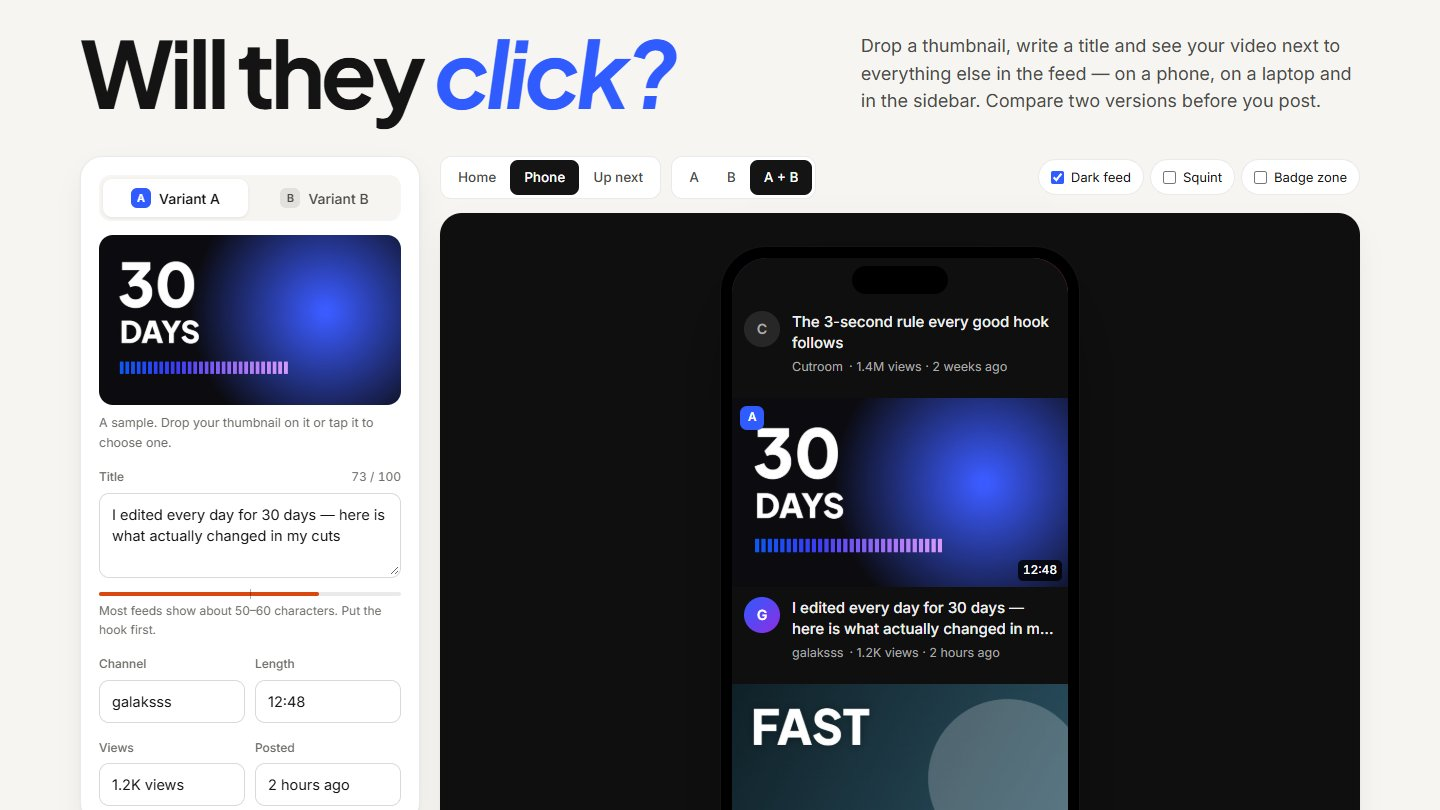
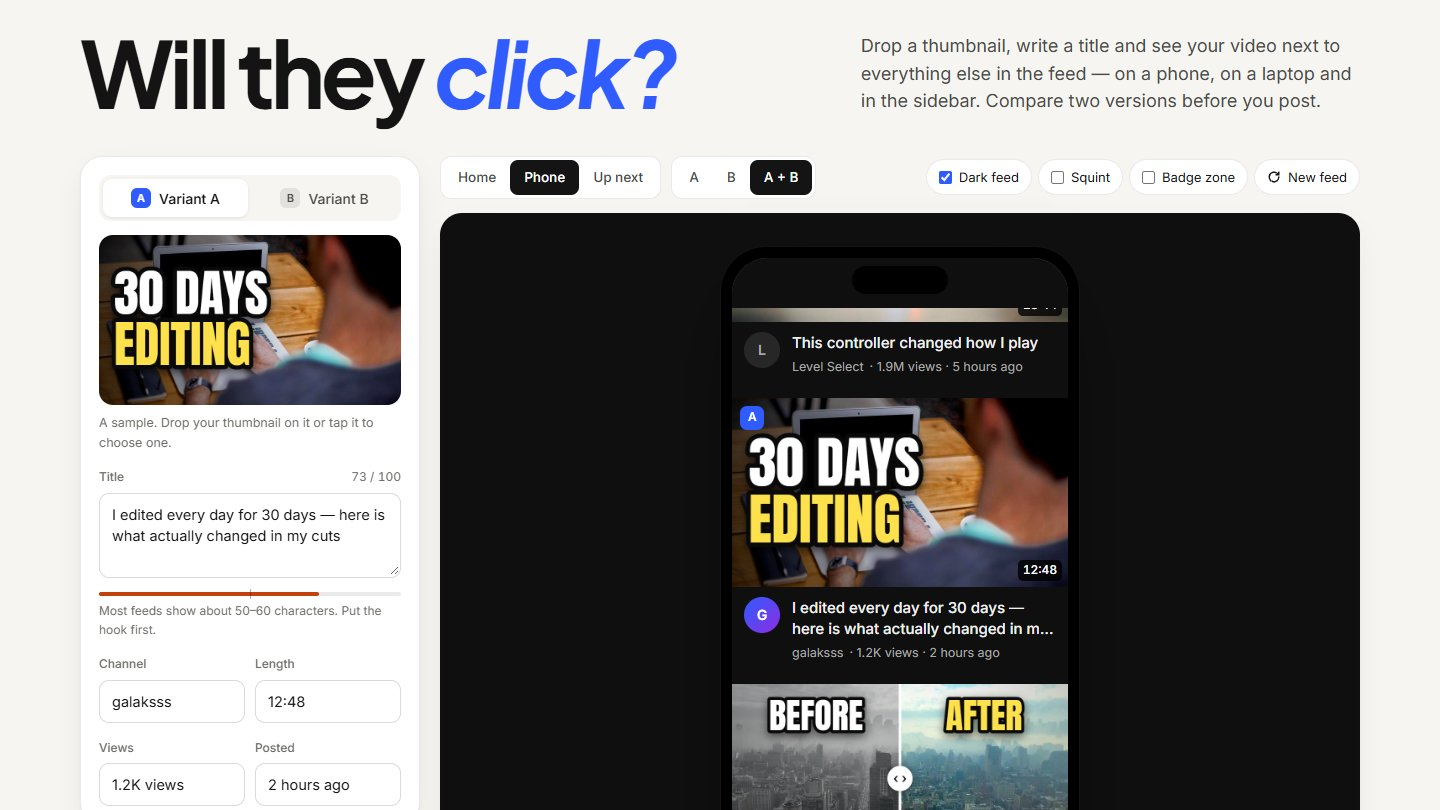
Feedcheck пересобран с живой лентой, новые кадры в карточке

diff --git a/public/p/feedcheck/assets/index-B7ynp-uK.js b/public/p/feedcheck/assets/index-B7ynp-uK.js
@@ -1,0 +1,27 @@
+(function(){let e=document.createElement(`link`).relList;if(e&&e.supports&&e.supports(`modulepreload`))return;for(let e of document.querySelectorAll(`link[rel="modulepreload"]`))n(e);new MutationObserver(e=>{for(let t of e)if(t.type===`childList`)for(let e of t.addedNodes)e.tagName===`LINK`&&e.rel===`modulepreload`&&n(e)}).observe(document,{childList:!0,subtree:!0});function t(e){let t={};return e.integrity&&(t.integrity=e.integrity),e.referrerPolicy&&(t.referrerPolicy=e.referrerPolicy),t.credentials=e.crossOrigin===`use-credentials`?`include`:e.crossOrigin===`anonymous`?`omit`:`same-origin`,t}function n(e){if(e.ep)return;e.ep=!0;let n=t(e);fetch(e.href,n)}})();var e=800,t=450,n=`/p/feedcheck/feed/`,r=`#FFE14D`,i=`#FF3B30`,a=[{img:0,title:`My 2026 desk setup — everything I actually use`,channel:`Small Desk`,views:`412K`,dur:`14:08`,look:{type:`box`,text:`2026 SETUP`,color:r,ink:`#111`,pos:`tl`}},{img:445,title:`Working from a 9 m² apartment for a year`,channel:`Quiet Hours`,views:`1.3M`,dur:`18:41`,look:{type:`clean`}},{img:529,title:`$80 speakers that sound like $2,000`,channel:`Signal Lab`,views:`688K`,dur:`11:20`,look:{type:`big`,text:`*$80* VS
+$2,000`,pos:`left`}},{img:668,title:`iPad or laptop for editing in 2026? I tried both`,channel:`Frame Club`,views:`254K`,dur:`16:02`,look:{type:`big`,text:`IPAD OR
+*LAPTOP?*`,pos:`left`}},{img:91,title:`Shooting only film for 30 days`,channel:`Grain Room`,views:`93K`,dur:`21:37`,look:{type:`big`,text:`30 DAYS
+*FILM ONLY*`,pos:`left`}},{img:355,title:`Why old lenses still look better`,channel:`Wide Lens`,views:`1.8M`,dur:`13:15`,look:{type:`ring`,at:[.47,.5],r:.27,text:`*1974*`,pos:`tr`}},{img:133,title:`Restoring two forgotten classics`,channel:`Garage 12`,views:`2.4M`,dur:`38:50`,look:{type:`big`,text:`WHICH *ONE?*`,pos:`top`}},{img:514,title:`I lived in a Defender for a month`,channel:`Long Way Round`,views:`740K`,dur:`24:12`,look:{type:`box`,text:`30 DAYS`,color:i,ink:`#fff`,pos:`tl`}},{img:1072,title:`I bought the cheapest truck on the internet`,channel:`Garage 12`,views:`3.1M`,dur:`19:44`,look:{type:`big`,text:`*$900*
+TRUCK`,pos:`left`}},{img:757,title:`Driving 1,000 km with no plan`,channel:`Long Way Round`,views:`186K`,dur:`27:03`,look:{type:`cine`,caption:`“just keep driving”`}},{img:376,title:`New York on $50 a day`,channel:`City Notes`,views:`967K`,dur:`15:30`,look:{type:`box`,text:`$50 / DAY`,color:r,ink:`#111`,pos:`bl`}},{img:402,title:`How to get this look in any city`,channel:`Grade School`,views:`521K`,dur:`9:58`,look:{type:`arrow`,at:[.56,.5],text:`THIS *LIGHT*`,pos:`tl`}},{img:391,title:`12 hours of a city in 60 seconds`,channel:`Keyframe Notes`,views:`2.2M`,dur:`8:12`,look:{type:`big`,text:`12H → *60S*`,pos:`bottom`}},{img:868,title:`Grading fog like a movie`,channel:`Grade School`,views:`318K`,dur:`12:46`,look:{type:`split`,a:`BEFORE`,b:`AFTER`}},{img:1067,title:`Phone vs $5,000 camera — can you tell?`,channel:`Frame Club`,views:`1.6M`,dur:`17:25`,look:{type:`split`,a:`PHONE`,b:`$5,000`}},{img:883,title:`Norway in 4K — the drive nobody talks about`,channel:`Wide Lens`,views:`4.7M`,dur:`31:09`,look:{type:`clean`,tag:`4K`}},{img:901,title:`I chased the northern lights for 7 nights`,channel:`Night Owl`,views:`1.1M`,dur:`22:40`,look:{type:`big`,text:`7 NIGHTS
+OF *THIS*`,pos:`left`}},{img:906,title:`Hiking to the foot of the Matterhorn`,channel:`Thin Air`,views:`402K`,dur:`26:18`,look:{type:`clean`}},{img:509,title:`Iceland without the crowds`,channel:`Wide Lens`,views:`833K`,dur:`20:55`,look:{type:`arrow`,at:[.5,.42],text:`*NO ONE*
+HERE`,pos:`tl`}},{img:1052,title:`The beach that looks like another planet`,channel:`Thin Air`,views:`2.9M`,dur:`14:37`,look:{type:`big`,text:`NOT *EARTH?*`,pos:`top`}},{img:397,title:`Italy in 48 hours — what I’d skip`,channel:`City Notes`,views:`611K`,dur:`18:03`,look:{type:`box`,text:`48H`,color:`#fff`,ink:`#111`,pos:`tl`,big:!0}},{img:473,title:`Making a short film alone in the fog`,channel:`Two Frames`,views:`74K`,dur:`11:59`,look:{type:`cine`,caption:`shot in one morning`}},{img:65,title:`Golden hour portraits with one light`,channel:`Grain Room`,views:`287K`,dur:`10:24`,look:{type:`clean`}},{img:429,title:`The 5-minute breakfast I eat every day`,channel:`Slow Kitchen`,views:`1.4M`,dur:`7:31`,look:{type:`box`,text:`5 MIN`,color:i,ink:`#fff`,pos:`tr`}},{img:488,title:`I cooked only $3 meals for a week`,channel:`Slow Kitchen`,views:`2.6M`,dur:`23:47`,look:{type:`big`,text:`*$3*
+MEALS`,pos:`left`}},{img:766,title:`Why your coffee tastes bitter`,channel:`Morning Ritual`,views:`905K`,dur:`12:10`,look:{type:`ring`,at:[.6,.52],r:.22,text:`*THIS*`,pos:`tl`}},{img:407,title:`Steel wool photography, safely`,channel:`Grain Room`,views:`1.2M`,dur:`9:06`,look:{type:`big`,text:`*SPARKS*`,pos:`right`}},{img:1062,title:`My dog reviews my edits`,channel:`Pip & Co`,views:`5.3M`,dur:`6:48`,look:{type:`big`,text:`HE *HATED* IT`,pos:`top`}},{img:1082,title:`Learning piano in 30 days`,channel:`Keys at Night`,views:`777K`,dur:`15:52`,look:{type:`big`,text:`DAY 1 VS *DAY 30*`,pos:`top`}},{img:96,title:`This controller changed how I play`,channel:`Level Select`,views:`1.9M`,dur:`13:44`,look:{type:`clean`}},{img:1024,title:`Filming an eagle at 240 fps`,channel:`Wide Lens`,views:`3.4M`,dur:`10:37`,look:{type:`big`,text:`*240* FPS`,pos:`bottom`}},{img:846,title:`The ocean at 1,000 frames per second`,channel:`Keyframe Notes`,views:`688K`,dur:`8:55`,look:{type:`clean`,tag:`1000 FPS`}},{img:726,title:`I spent a night at −20°C`,channel:`Thin Air`,views:`2.0M`,dur:`29:30`,look:{type:`box`,text:`−20°C`,color:`#4FA3FF`,ink:`#fff`,pos:`tl`,big:!0}},{img:1077,title:`The shutter trick every editor needs`,channel:`Cutroom`,views:`446K`,dur:`11:11`,look:{type:`big`,text:`*1/30*
+SECOND`,pos:`left`}}],o={a:{img:5,look:{type:`big`,text:`30 DAYS
+*EDITING*`,pos:`left`}},b:{img:60,look:{type:`big`,text:`DAY 1
+→ *DAY 30*`,pos:`left`}}},s=[`2 hours ago`,`5 hours ago`,`11 hours ago`,`1 day ago`,`2 days ago`,`3 days ago`,`5 days ago`,`1 week ago`,`2 weeks ago`,`3 weeks ago`];function c(e,t=[]){let n=a.filter(e=>!t.includes(e)),r=(n.length>=e?n:a).slice();for(let e=r.length-1;e>0;e--){let t=Math.floor(Math.random()*(e+1));[r[e],r[t]]=[r[t],r[e]]}return r.slice(0,e).map(e=>({...e,meta:`${e.views} views · ${s[Math.floor(Math.random()*s.length)]}`}))}var l=new Map;function u(e){return l.has(e)||l.set(e,new Promise(t=>{let r=new Image;r.onload=()=>t(r),r.onerror=()=>t(null),r.src=`${n}${e}.jpg`})),l.get(e)}var d=`Anton, Impact, "Arial Narrow", sans-serif`,f=(()=>{try{return`filter`in document.createElement(`canvas`).getContext(`2d`)}catch{return!1}})();function p(){let n=document.createElement(`canvas`);return n.width=e,n.height=t,[n,n.getContext(`2d`)]}function m(n,r,i=`saturate(1.22) contrast(1.07)`){let a=Math.max(e/r.naturalWidth,t/r.naturalHeight),o=r.naturalWidth*a,s=r.naturalHeight*a;f&&(n.filter=i),n.drawImage(r,(e-o)/2,(t-s)/2,o,s),f&&(n.filter=`none`)}function h(n,r=.45){let i=n.createRadialGradient(e/2,t/2,t*.35,e/2,t/2,e*.72);i.addColorStop(0,`rgba(0,0,0,0)`),i.addColorStop(1,`rgba(0,0,0,${r})`),n.fillStyle=i,n.fillRect(0,0,e,t)}function g(n,r,i=.6){let a={left:[0,0,e*.75,0],right:[e,0,e*.25,0],top:[0,0,0,t*.6],bottom:[0,t,0,t*.4]},o=n.createLinearGradient(...a[r]);o.addColorStop(0,`rgba(0,0,0,${i})`),o.addColorStop(1,`rgba(0,0,0,0)`),n.fillStyle=o,n.fillRect(0,0,e,t)}var _=e=>e.split(/(\*[^*]+\*)/).filter(Boolean).map(e=>e[0]===`*`?{t:e.slice(1,-1),hl:!0}:{t:e,hl:!1});function v(e,t,{x:n,y:i,maxW:a,maxSize:o=132,align:s=`left`,valign:c=`middle`,hl:l=r,ink:u=`#fff`}){let f=t.split(`
+`).map(_),p=o,m=t=>(e.font=`${t}px ${d}`,Math.max(...f.map(t=>t.reduce((t,n)=>t+e.measureText(n.t).width,0))));for(;p>40&&m(p)>a;)p-=4;e.font=`${p}px ${d}`;let h=p*1.02,g=h*f.length,v=c===`top`?i:c===`bottom`?i-g:i-g/2;e.textBaseline=`alphabetic`,e.lineJoin=`round`;for(let t of[`stroke`,`fill`])f.forEach((r,i)=>{let a=r.reduce((t,n)=>t+e.measureText(n.t).width,0),o=s===`right`?n-a:s===`center`?n-a/2:n,c=v+h*(i+1)-p*.12;r.forEach(n=>{t===`stroke`?(e.save(),e.shadowColor=`rgba(0,0,0,.55)`,e.shadowBlur=22,e.shadowOffsetY=8,e.lineWidth=p*.17,e.strokeStyle=u===`#111`?`#fff`:`#0A0A0A`,e.strokeText(n.t,o,c),e.restore()):(e.fillStyle=n.hl?l:u,e.fillText(n.t,o,c)),o+=e.measureText(n.t).width})});return{size:p,top:v,bottom:v+g}}function y(e,t,n,r,i,a){e.beginPath(),e.moveTo(t+a,n),e.arcTo(t+r,n,t+r,n+i,a),e.arcTo(t+r,n+i,t,n+i,a),e.arcTo(t,n+i,t,n,a),e.arcTo(t,n,t+r,n,a),e.closePath()}function b(n,{text:r,color:i,ink:a,pos:o,big:s}){let c=s?112:70;n.font=`${c}px ${d}`;let l=n.measureText(r).width,u=c*.32,f=c*.16,p=l+u*2,m=c*1.05+f*2,h=o.includes(`r`)?e-p-34:34,g=o.includes(`b`)?t-m-40:34;n.save(),n.translate(h+p/2,g+m/2),n.rotate(-.045),n.shadowColor=`rgba(0,0,0,.45)`,n.shadowBlur=26,n.shadowOffsetY=10,y(n,-p/2,-m/2,p,m,14),n.fillStyle=i,n.fill(),n.shadowColor=`transparent`,n.fillStyle=a,n.textBaseline=`middle`,n.textAlign=`center`,n.fillText(r,0,c*.04),n.restore()}function x(e,t,n,r,a){let o=(t+r)/2+(a-n)*.25,s=(n+a)/2-(r-t)*.25,c=Math.atan2(a-s,r-o),l=()=>{e.beginPath(),e.moveTo(r+Math.cos(c)*6,a+Math.sin(c)*6),e.lineTo(r-Math.cos(c-.5)*34,a-Math.sin(c-.5)*34),e.lineTo(r-Math.cos(c+.5)*34,a-Math.sin(c+.5)*34),e.closePath()},u=r-Math.cos(c)*34*.6,d=a-Math.sin(c)*34*.6;e.save(),e.lineCap=`round`,e.lineJoin=`round`,e.shadowColor=`rgba(0,0,0,.5)`,e.shadowBlur=16;for(let[r,a]of[[22,`#fff`],[11,i]])e.strokeStyle=a,e.fillStyle=a,e.lineWidth=r,e.beginPath(),e.moveTo(t,n),e.quadraticCurveTo(o,s,u,d),e.stroke(),l(),r>12&&(e.lineWidth=10,e.stroke()),e.fill(),e.shadowColor=`transparent`;e.restore()}function S(e,t,n,r){e.save(),e.shadowColor=`rgba(0,0,0,.5)`,e.shadowBlur=16;for(let[a,o]of[[20,`#fff`],[10,i]])e.lineWidth=a,e.strokeStyle=o,e.beginPath(),e.ellipse(t,n,r*1.08,r,-.15,0,Math.PI*2),e.stroke(),e.shadowColor=`transparent`;e.restore()}function C(e,t,n,r,{bg:i=`rgba(0,0,0,.78)`,ink:a=`#fff`,size:o=30,font:s=`700 ${o}px Inter, system-ui, sans-serif`,align:c=`left`}={}){e.font=s;let l=e.measureText(t).width,u=o*.5,d=o*1.6,f=c===`right`?n-l-u*2:c===`center`?n-l/2-u:n;y(e,f,r,l+u*2,d,10),e.fillStyle=i,e.fill(),e.fillStyle=a,e.textBaseline=`middle`,e.textAlign=`left`,e.fillText(t,f+u,r+d/2+1)}function w(n,r,{a:i,b:a}){if(m(n,r,`saturate(1.35) contrast(1.1)`),n.save(),n.beginPath(),n.rect(0,0,e/2,t),n.clip(),f)m(n,r,`grayscale(.85) contrast(.82) brightness(.92)`);else{let r=n.getImageData(0,0,e/2,t),i=r.data;for(let e=0;e<i.length;e+=4){let t=(i[e]*.3+i[e+1]*.59+i[e+2]*.11)*.92;i[e]=i[e]*.15+t*.85,i[e+1]=i[e+1]*.15+t*.85,i[e+2]=i[e+2]*.15+t*.85}n.putImageData(r,0,0)}n.restore(),n.save(),n.beginPath(),n.rect(e/2,0,e/2,t),n.clip(),n.globalCompositeOperation=`soft-light`;let o=n.createLinearGradient(0,0,0,t);o.addColorStop(0,`rgba(0,140,170,.55)`),o.addColorStop(1,`rgba(255,150,60,.6)`),n.fillStyle=o,n.fillRect(e/2,0,e/2,t),n.restore(),h(n,.3),n.fillStyle=`#fff`,n.fillRect(e/2-3,0,6,t),n.save(),n.shadowColor=`rgba(0,0,0,.4)`,n.shadowBlur=14,n.beginPath(),n.arc(e/2,t/2,30,0,Math.PI*2),n.fillStyle=`#fff`,n.fill(),n.restore(),n.fillStyle=`#111`,n.font=`700 30px Inter, system-ui, sans-serif`,n.textAlign=`center`,n.textBaseline=`middle`,n.fillText(`‹ ›`,e/2,226),n.textAlign=`left`,v(n,i,{x:e*.25,y:34,maxW:e*.42,maxSize:84,align:`center`,valign:`top`}),v(n,`*${a}*`,{x:e*.75,y:34,maxW:e*.42,maxSize:84,align:`center`,valign:`top`})}function T(n,r){let[i,a]=p(),o=n.look;if(o.type===`split`)return w(a,r,o),i.toDataURL(`image/jpeg`,.86);if(m(a,r),o.type===`big`){let n={left:`left`,right:`right`,top:`top`,bottom:`bottom`}[o.pos];h(a,.3),o.ink!==`#111`&&g(a,n,.62);let r={left:{x:40,y:t/2,maxW:e*.56,align:`left`},right:{x:760,y:t/2,maxW:e*.56,align:`right`},top:{x:e/2,y:30,maxW:e*.88,align:`center`,valign:`top`,maxSize:120},bottom:{x:e/2,y:406,maxW:e*.88,align:`center`,valign:`bottom`,maxSize:120}}[o.pos];v(a,o.text,{...r,ink:o.ink||`#fff`})}else if(o.type===`box`)h(a,.35),b(a,o);else if(o.type===`arrow`){h(a,.3),g(a,`left`,.5);let n=v(a,o.text,{x:38,y:34,maxW:e*.48,maxSize:96,valign:`top`});x(a,70+n.size*.9,n.bottom+26,o.at[0]*e-40,o.at[1]*t+10)}else if(o.type===`ring`){h(a,.35),S(a,o.at[0]*e,o.at[1]*t,o.r*t);let n=o.pos===`tr`;g(a,n?`right`:`left`,.45),v(a,o.text,{x:n?762:38,y:30,maxW:e*.4,maxSize:110,align:n?`right`:`left`,valign:`top`})}else if(o.type===`cine`){h(a,.3);let n=t*.115;a.fillStyle=`#000`,a.fillRect(0,0,e,n),a.fillRect(0,398.25,e,n),a.font=`italic 600 40px Inter, system-ui, sans-serif`,a.fillStyle=`#fff`,a.textAlign=`center`,a.textBaseline=`middle`,a.shadowColor=`rgba(0,0,0,.8)`,a.shadowBlur=10,a.fillText(o.caption,e/2,358.25),a.shadowColor=`transparent`,a.textAlign=`left`}else h(a,.38),o.tag&&C(a,o.tag,28,26,{bg:`rgba(0,0,0,.72)`,size:28});return i.toDataURL(`image/jpeg`,.86)}function E(n,r=0){let[i,a]=p(),o=r*47%360,s=a.createLinearGradient(0,0,e,t);return s.addColorStop(0,`hsl(${o},70%,45%)`),s.addColorStop(1,`hsl(${(o+50)%360},70%,25%)`),a.fillStyle=s,a.fillRect(0,0,e,t),v(a,(n.look.text||n.look.a||n.channel).replace(/\*/g,``),{x:40,y:t/2,maxW:e*.8}),i.toDataURL(`image/jpeg`,.86)}var D=document.createElement(`canvas`).getContext(`2d`);function O(e,{width:t,font:n},r=2){D.font=n;let i=e.split(/\s+/).filter(Boolean),a=0,o=``,s=[];for(let e=0;e<i.length;e++){let n=o?o+` `+i[e]:i[e];if(D.measureText(n).width<=t)o=n,s.push(i[e]);else{if(a++,a>=r){let e=s.slice();for(;e.length&&D.measureText(k(e,t)+`…`).width>t;)e.pop();return e.join(` `)}o=i[e],s.push(i[e])}}return s.join(` `)}function k(e,t){let n=``;for(let r of e){let e=n?n+` `+r:r;n=D.measureText(e).width<=t?e:r}return n}var A=e=>document.querySelector(e),j=e=>e.replace(/[&<>"]/g,e=>({"&":`&amp;`,"<":`&lt;`,">":`&gt;`,'"':`&quot;`})[e]),M={tab:`a`,mode:`home`,show:`a`,v:{a:{title:`I edited every day for 30 days — here is what actually changed in my cuts`,thumb:``,w:1280,h:720,custom:!1},b:{title:`30 days of editing changed how I cut`,thumb:``,w:1280,h:720,custom:!1}},channel:`galaksss`,duration:`12:48`,views:`1.2K views`,age:`2 hours ago`},N=[];function P(e,{mine:t=!1,tag:n=``}={}){let r=j((e.channel||`?`).trim()[0]||`?`).toUpperCase();return`
+    <article class="vid ${t?`is-mine`:``}">
+      <div class="vid__thumb">
+        <img src="${e.thumb}" alt="" loading="lazy" decoding="async">
+        <span class="vid__dur">${j(e.dur)}</span>
+        ${t?`<span class="vid__zone" aria-hidden="true"></span>`:``}
+        ${n?`<span class="vid__tag">${n}</span>`:``}
+      </div>
+      <div class="vid__body">
+        <span class="vid__ava ${t?`vid__ava--mine`:``}" aria-hidden="true">${r}</span>
+        <div class="vid__text">
+          <p class="vid__title">${j(e.title||`Untitled`)}</p>
+          <p class="vid__meta"><span>${j(e.channel)}</span><span>${j(e.meta)}</span></p>
+        </div>
+      </div>
+    </article>`}function F(e){let t=M.v[e];return{title:t.title,thumb:t.thumb,channel:M.channel,meta:`${M.views} · ${M.age}`,dur:M.duration}}function I(){let e=A(`[data-feed]`),t=M.show===`ab`?[`a`,`b`]:[M.show],n=N.map(e=>({html:P(e)}));n.splice(2,0,{html:P(F(t[0]),{mine:!0,tag:t.length>1?`A`:``})}),t[1]&&n.splice(4,0,{html:P(F(t[1]),{mine:!0,tag:`B`})});let r=M.mode===`phone`?n.slice(0,5):M.mode===`next`?n.slice(0,8):n.slice(0,9);if(e.dataset.mode=M.mode,e.innerHTML=M.mode===`phone`?`<div class="phone"><div class="phone__notch"></div><div class="phone__scroll">${r.map(e=>e.html).join(``)}</div></div>`:M.mode===`next`?`<div class="next"><div class="next__player"><span>Now playing</span></div><div class="next__list"><p class="next__h">Up next</p>${r.map(e=>e.html).join(``)}</div></div>`:`<div class="grid">${r.map(e=>e.html).join(``)}</div>`,M.mode===`phone`){let t=e.querySelector(`.phone__scroll`),n=e.querySelector(`.vid.is-mine`);t&&n&&(t.scrollTop=n.offsetTop-t.offsetTop-140)}}var L=[{id:`home`,name:`Home`,width:262,font:`600 16px Inter`},{id:`phone`,name:`Phone`,width:264,font:`500 15px Inter`},{id:`next`,name:`Up next`,width:222,font:`600 14px Inter`}];function R(e){if(e.id!==M.mode)return e;let t=document.querySelector(`.vid.is-mine .vid__title`);if(!t||!t.clientWidth)return e;let n=getComputedStyle(t);return{...e,width:t.clientWidth,font:`${n.fontWeight} ${n.fontSize} ${n.fontFamily}`}}function z(){let e=M.show===`ab`?[`a`,`b`]:[M.show];A(`[data-insights]`).innerHTML=e.map(t=>{let n=M.v[t].title.trim().split(/\s+/).join(` `)||`Untitled`,r=L.map(R).map(e=>{let t=O(n,e),r=t===n;return`<li class="${r?`ok`:`cut`}"><span class="ins__where">${e.name}</span><span class="ins__what">${r?`Shows in full`:`Cut after “${j(t.split(` `).slice(-4).join(` `))}…”`}</span></li>`}).join(``);return`${e.length>1?`<li class="ins__k">Variant ${t.toUpperCase()}</li>`:``}${r}`}).join(``)}function B(){let e=M.v[M.tab];A(`[data-title]`).value=e.title,A(`[data-thumb-preview]`).src=e.thumb,V(),H()}function V(){let e=M.v[M.tab].title.length;A(`[data-count]`).textContent=`${e} / 100`,A(`[data-meter]`).style.width=e+`%`,A(`[data-meter]`).classList.toggle(`is-long`,e>60)}function H(){let e=M.v[M.tab],t=A(`[data-thumb-check]`);if(!e.custom){t.textContent=`A sample. Drop your thumbnail on it or tap it to choose one.`,t.className=`check`;return}let n=e.w/e.h,r=[];Math.abs(n-16/9)>.02&&r.push(`${e.w}×${e.h} is not 16:9 — it will be cropped`),e.w<1280&&r.push(`${e.w}px wide — use at least 1280 so it stays sharp`),t.textContent=r.length?r.join(` · `):`${e.w}×${e.h}, 16:9 — good`,t.className=`check `+(r.length?`is-warn`:`is-ok`)}function U(){I(),z()}var W=0;addEventListener(`resize`,()=>{clearTimeout(W),W=setTimeout(z,150)}),A(`[data-editor]`).addEventListener(`input`,e=>{let t=e.target;t.name===`title`&&(M.v[M.tab].title=t.value,V()),[`channel`,`duration`,`views`,`age`].includes(t.name)&&(M[t.name]=t.value),U()}),document.querySelectorAll(`[data-tab]`).forEach(e=>e.addEventListener(`click`,()=>{M.tab=e.dataset.tab,document.querySelectorAll(`[data-tab]`).forEach(t=>{let n=t===e;t.classList.toggle(`is-on`,n),t.setAttribute(`aria-selected`,n)}),M.show!==`ab`&&(M.show=M.tab,A(`#v-${M.tab}`).checked=!0,U()),B()})),document.querySelectorAll(`[name=mode], [name=show]`).forEach(e=>e.addEventListener(`change`,()=>{M[e.name]=e.value,U()})),A(`[data-dark]`).addEventListener(`change`,e=>A(`[data-feed]`).classList.toggle(`is-dark`,e.target.checked)),A(`[data-squint]`).addEventListener(`change`,e=>A(`[data-feed]`).classList.toggle(`is-squint`,e.target.checked)),A(`[data-zone]`).addEventListener(`change`,e=>A(`[data-feed]`).classList.toggle(`is-zone`,e.target.checked));var G=A(`[data-drop]`);[`dragenter`,`dragover`].forEach(e=>G.addEventListener(e,e=>{e.preventDefault(),G.classList.add(`is-over`)})),[`dragleave`,`drop`].forEach(e=>G.addEventListener(e,()=>G.classList.remove(`is-over`))),G.addEventListener(`drop`,e=>{e.preventDefault();let t=e.dataTransfer.files[0];t&&K(t)}),A(`[data-file]`).addEventListener(`change`,e=>{let t=e.target.files[0];t&&K(t)});function K(e){if(!e.type.startsWith(`image/`))return;let t=URL.createObjectURL(e),n=new Image;n.onload=()=>{let e=M.v[M.tab];e.custom&&URL.revokeObjectURL(e.thumb),Object.assign(e,{thumb:t,w:n.naturalWidth,h:n.naturalHeight,custom:!0}),B(),U()},n.src=t}async function q(e,t){let n=await u(e.img);return n?T(e,n):E(e,t)}async function J(){let e=c(8,N.map(e=>e.src)),t=await Promise.all(e.map((e,t)=>q(e,t)));N=e.map((e,n)=>({...e,src:a.find(t=>t.img===e.img),thumb:t[n]})),I()}var Y=A(`[data-shuffle]`);Y?.addEventListener(`click`,async()=>{Y.disabled=!0,Y.classList.add(`is-spin`),await J(),setTimeout(()=>{Y.classList.remove(`is-spin`),Y.disabled=!1},450)}),(async()=>{await Promise.race([Promise.all([document.fonts.load(`400 92px Anton`),document.fonts.load(`600 16px Inter`)]),new Promise(e=>setTimeout(e,1500))]);let e=new URLSearchParams(location.search);[`home`,`phone`,`next`].includes(e.get(`mode`))&&(M.mode=e.get(`mode`),A(`#m-${M.mode}`).checked=!0),[`a`,`b`,`ab`].includes(e.get(`show`))&&(M.show=e.get(`show`),A(`#v-${M.show}`).checked=!0),e.get(`dark`)===`0`&&(A(`[data-dark]`).checked=!1,A(`[data-feed]`).classList.remove(`is-dark`));let[t,n]=await Promise.all([`a`,`b`].map(e=>q(o[e],e===`a`?1:2)));M.v.a.custom||(M.v.a.thumb=t),M.v.b.custom||(M.v.b.thumb=n),B(),await J()})();

diff --git a/public/p/feedcheck/assets/index-7cabGm70.css b/public/p/feedcheck/assets/index-7cabGm70.css
@@ -1,0 +1,1 @@
+:root{--bg:#f6f5f1;--paper:#fff;--ink:#141414;--ink-2:#4a4a48;--mute:#6e6d69;--line:#14141417;--line-2:#14141429;--accent:#2f5bff;--ok:#14945a;--warn:#c2410c;--ease:cubic-bezier(.16,1,.3,1);--display:"Plus Jakarta Sans",system-ui,sans-serif;--sans:"Inter",system-ui,sans-serif;--gutter:clamp(16px,4vw,40px);--shadow:0 1px 2px #1414140a,0 12px 32px -12px #1414141f}*{box-sizing:border-box;margin:0;padding:0}[hidden]{display:none!important}body{background:var(--bg);color:var(--ink);font-family:var(--sans);-webkit-font-smoothing:antialiased;font-size:15px;line-height:1.55;overflow-x:clip}a{color:inherit;text-decoration:none}button,input,textarea{font:inherit;color:inherit}ul{list-style:none}:focus-visible{outline:2px solid var(--accent);outline-offset:2px;border-radius:6px}::selection{background:var(--accent);color:#fff}.wrap{width:min(1280px,100% - 2*var(--gutter));margin-inline:auto}.top{border-bottom:1px solid var(--line)}.top__in{justify-content:space-between;align-items:center;gap:16px;height:62px;display:flex}.logo{font-family:var(--display);letter-spacing:-.02em;align-items:center;gap:10px;font-size:19px;font-weight:700;display:inline-flex}.logo__mark{grid-template-columns:1fr 1fr;gap:2px;width:20px;display:grid}.logo__mark i{aspect-ratio:16/10;background:var(--ink);opacity:.18;border-radius:2px}.logo__mark i:nth-child(3){background:var(--accent);opacity:1}.top__note{color:var(--mute);font-size:13px}.hero{grid-template-columns:minmax(0,1.2fr) minmax(0,.8fr);align-items:end;gap:32px;padding:clamp(48px,8vh,88px) 0 clamp(32px,5vh,56px);display:grid}.hero__title{font-family:var(--display);letter-spacing:-.05em;font-size:clamp(46px,6.4vw,96px);font-weight:700;line-height:.95}.hero__title span{color:var(--accent);font-style:italic;font-weight:700}.hero__lead{color:var(--ink-2);max-width:30em;font-size:clamp(16px,1.3vw,18px)}.work{grid-template-columns:340px minmax(0,1fr);align-items:start;gap:20px;padding-bottom:clamp(64px,10vh,120px);display:grid}.editor{background:var(--paper);border:1px solid var(--line);box-shadow:var(--shadow);border-radius:22px;padding:18px;position:sticky;top:20px}.tabs{background:var(--bg);border-radius:12px;grid-template-columns:1fr 1fr;gap:4px;padding:4px;display:grid}.tab{cursor:pointer;height:38px;color:var(--ink-2);background:0 0;border:0;border-radius:9px;justify-content:center;align-items:center;gap:8px;font-size:14px;font-weight:500;display:flex}.tab b{background:var(--line);width:20px;height:20px;color:var(--ink-2);border-radius:6px;place-items:center;font-size:11px;display:inline-grid}.tab.is-on{background:var(--paper);color:var(--ink);box-shadow:0 1px 3px #00000014}.tab.is-on b{background:var(--accent);color:#fff}.thumb-drop{aspect-ratio:16/9;cursor:pointer;background:#111;border-radius:14px;margin-top:14px;display:block;position:relative;overflow:hidden}.thumb-drop img{object-fit:cover;width:100%;height:100%;transition:opacity .3s;display:block}.thumb-drop__cta{color:#fff;-webkit-backdrop-filter:blur(3px);backdrop-filter:blur(3px);opacity:0;transition:opacity .3s var(--ease);background:#0a0a0e8c;place-items:center;font-size:13.5px;font-weight:500;display:grid;position:absolute;inset:0}.thumb-drop__cta u{color:#fff}.thumb-drop:hover .thumb-drop__cta,.thumb-drop.is-over .thumb-drop__cta,.thumb-drop:focus-within .thumb-drop__cta{opacity:1}.thumb-drop.is-over{outline:2px dashed var(--accent);outline-offset:3px}.check{color:var(--mute);margin-top:8px;font-size:12.5px}.check.is-ok{color:var(--ok)}.check.is-warn{color:var(--warn)}.field{min-width:0;margin-top:16px}.field label{color:var(--mute);margin-bottom:6px;font-size:12px;font-weight:500;display:block}.field__top{justify-content:space-between;align-items:baseline;display:flex}.count{color:var(--mute);font-variant-numeric:tabular-nums;font-size:12px}textarea,input:not([type]){border:1px solid var(--line-2);background:var(--paper);resize:vertical;border-radius:10px;width:100%;padding:10px 12px;font-size:14.5px;line-height:1.45;transition:border-color .2s,box-shadow .2s}textarea:focus,input:not([type]):focus{border-color:var(--accent);box-shadow:0 0 0 3px color-mix(in srgb,var(--accent) 18%,transparent);outline:0}.field-row{grid-template-columns:1fr 1fr;gap:10px;display:grid}.meter{background:var(--line);border-radius:2px;height:4px;margin-top:8px;position:relative}.meter i{background:var(--accent);max-width:100%;transition:width .3s var(--ease),background .3s;border-radius:2px;position:absolute;inset:0 auto 0 0}.meter i.is-long{background:var(--warn)}.meter__mark{left:var(--at);background:var(--ink);opacity:.35;width:1px;height:10px;position:absolute;top:-3px}.hint{color:var(--mute);margin-top:6px;font-size:12px}.stage{min-width:0}.bar{flex-wrap:wrap;align-items:center;gap:10px;margin-bottom:14px;display:flex}.seg{background:var(--paper);border:1px solid var(--line);border-radius:11px;grid-auto-flow:column;padding:3px;display:inline-grid}.seg input{opacity:0;pointer-events:none;position:absolute}.seg label{color:var(--ink-2);cursor:pointer;border-radius:8px;padding:7px 14px;font-size:13.5px;font-weight:500;transition:background .2s,color .2s}.seg input:checked+label{background:var(--ink);color:#fff}.seg input:focus-visible+label{outline:2px solid var(--accent)}.toggles{gap:6px;margin-left:auto;display:flex}.tg{border:1px solid var(--line);background:var(--paper);cursor:pointer;-webkit-user-select:none;user-select:none;border-radius:999px;align-items:center;gap:7px;padding:7px 12px;font-size:13px;display:inline-flex}.tg input{accent-color:var(--accent)}.tg--btn{font:inherit;color:var(--ink);font-size:13px;transition:border-color .2s,background .2s}.tg--btn:hover{border-color:var(--ink-2)}.tg--btn svg{width:14px;height:14px;transition:transform .45s cubic-bezier(.16,1,.3,1)}.tg--btn.is-spin svg{transform:rotate(360deg)}.tg--btn:disabled{cursor:progress}.feed{--f-bg:#fff;--f-ink:#0f0f0f;--f-mute:#606060;--f-line:#00000014;background:var(--f-bg);color:var(--f-ink);border:1px solid var(--line);min-height:560px;box-shadow:var(--shadow);border-radius:22px;padding:22px;transition:background .4s,color .4s}.feed.is-dark{--f-bg:#0f0f0f;--f-ink:#f1f1f1;--f-mute:#aaa;--f-line:#ffffff1a}.vid{min-width:0}.vid__thumb{aspect-ratio:16/9;background:#222;border-radius:12px;position:relative;overflow:hidden}.vid__thumb img{object-fit:cover;width:100%;height:100%;display:block}.vid__dur{color:#fff;font-variant-numeric:tabular-nums;background:#000c;border-radius:5px;padding:1px 5px;font-size:12px;font-weight:500;position:absolute;bottom:6px;right:6px}.vid__tag{background:var(--accent);color:#fff;border-radius:7px;place-items:center;width:24px;height:24px;font-size:12px;font-weight:700;display:grid;position:absolute;top:8px;left:8px}.vid__zone{opacity:0;background:#ff4d4d24;border:2px dashed #ff4d4d;border-radius:0 0 12px;width:30%;height:28%;transition:opacity .3s;position:absolute;bottom:0;right:0}.feed.is-zone .vid__zone{opacity:1}.vid__body{gap:12px;margin-top:12px;display:flex}.vid__ava{background:var(--f-line);width:36px;height:36px;color:var(--f-mute);border-radius:50%;flex:none;place-items:center;font-size:14px;font-weight:600;display:grid}.vid__ava--mine{color:#fff;background:linear-gradient(135deg,#2f5bff,#8e2de2)}.vid__text{min-width:0}.vid__title{-webkit-line-clamp:2;word-break:break-word;-webkit-box-orient:vertical;font-size:16px;font-weight:600;line-height:22px;display:-webkit-box;overflow:hidden}.vid__meta{color:var(--f-mute);flex-direction:column;margin-top:4px;font-size:13.5px;line-height:19px;display:flex}.feed.is-squint .vid,.feed.is-squint .vid.is-mine{filter:blur(2.4px)saturate(1.1)}.grid{grid-template-columns:repeat(3,minmax(0,1fr));gap:28px 16px;display:grid}.feed[data-mode=phone]{place-items:center;padding:32px;display:grid}.phone{background:#000;border-radius:46px;width:360px;height:700px;padding:12px;position:relative;box-shadow:inset 0 0 0 1px #ffffff14,0 30px 80px -30px #0009}.phone__notch{z-index:2;background:#000;border-radius:20px;width:96px;height:28px;position:absolute;top:20px;left:50%;translate:-50%}.phone:after{content:"";background:var(--f-bg);z-index:1;border-radius:36px 36px 0 0;height:50px;position:absolute;top:12px;left:12px;right:12px}.phone__scroll{background:var(--f-bg);scrollbar-width:none;border-radius:36px;height:100%;padding-top:52px;overflow:hidden auto}.phone__scroll::-webkit-scrollbar{display:none}.phone .vid{margin-bottom:22px}.phone .vid__thumb{border-radius:0}.phone .vid__body{margin-top:10px;padding:0 12px}.phone .vid__title{font-size:15px;font-weight:500;line-height:21px}.phone .vid__meta{flex-flow:wrap;gap:0 6px;font-size:12.5px}.phone .vid__meta span+span:before{content:"· "}.next{grid-template-columns:minmax(0,1fr) 400px;gap:20px;display:grid}.next__player{aspect-ratio:16/9;background:repeating-linear-gradient(135deg,var(--f-line) 0 2px,transparent 2px 14px);color:var(--f-mute);border-radius:14px;align-self:start;place-items:center;font-size:13px;display:grid}.next__h{margin-bottom:12px;font-size:15px;font-weight:600}.next .vid{grid-template-columns:168px minmax(0,1fr);gap:10px;margin-bottom:10px;display:grid}.next .vid__thumb{border-radius:9px}.next .vid__dur{font-size:11px;bottom:4px;right:4px}.next .vid__body{margin-top:0}.next .vid__ava{display:none}.next .vid__title{font-size:14px;line-height:20px}.next .vid__meta{font-size:12px;line-height:17px}.next .vid__tag{width:20px;height:20px;font-size:11px;top:5px;left:5px}.insights{background:var(--paper);border:1px solid var(--line);border-radius:18px;margin-top:14px;padding:18px 20px}.insights__h{font-family:var(--display);letter-spacing:-.01em;font-size:17px;font-weight:700}.insights ul{margin-top:10px}.insights li{border-top:1px solid var(--line);grid-template-columns:90px minmax(0,1fr);gap:12px;padding:9px 0;font-size:14px;display:grid}.insights li:first-child{border-top:0}.ins__where{color:var(--mute)}.insights li.ok .ins__what{color:var(--ok)}.insights li.cut .ins__what{color:var(--warn)}.insights li.ins__k{padding-top:14px;font-weight:600;display:block}.insights li.ins__k:first-child{padding-top:4px}.tips{grid-template-columns:repeat(3,minmax(0,1fr));gap:16px;padding-bottom:clamp(64px,10vh,120px);display:grid}.tips article{border:1px solid var(--line);background:var(--paper);border-radius:18px;padding:22px}.tips h3{font-family:var(--display);letter-spacing:-.02em;font-size:20px;font-weight:700}.tips p{color:var(--ink-2);margin-top:8px}.foot{border-top:1px solid var(--line);color:var(--mute);padding:22px 0;font-size:13px}.foot__in{flex-wrap:wrap;justify-content:space-between;gap:16px;display:flex}.foot a:hover{color:var(--ink)}@media (width<=1100px){.grid{grid-template-columns:repeat(2,minmax(0,1fr))}.next{grid-template-columns:1fr}}@media (width<=900px){.hero,.work{grid-template-columns:1fr}.editor{position:static}.toggles{margin-left:0}.tips{grid-template-columns:1fr}}@media (width<=560px){.top__note{display:none}.feed{padding:14px}.grid{grid-template-columns:1fr}.feed[data-mode=phone]{padding:12px}.phone{width:100%;max-width:340px;height:640px}.next .vid{grid-template-columns:140px minmax(0,1fr)}}@media (prefers-reduced-motion:reduce){*{transition:none!important}}.foot a{margin:-10px 0;padding:10px 0;display:inline-block}.foot__links{flex-wrap:wrap;gap:20px;display:flex}

diff --git a/public/p/feedcheck/index.html b/public/p/feedcheck/index.html
@@ -11,9 +11,9 @@
   <meta name="theme-color" content="#F6F5F1">
   <link rel="preconnect" href="https://fonts.googleapis.com">
   <link rel="preconnect" href="https://fonts.gstatic.com" crossorigin>
-  <link href="https://fonts.googleapis.com/css2?family=Plus+Jakarta+Sans:ital,wght@0,500;0,600;0,700;0,800;1,700&family=Inter:wght@400;500;600&display=swap" rel="stylesheet">
-  <script type="module" crossorigin src="/p/feedcheck/assets/index-C16vWFQo.js"></script>
-  <link rel="stylesheet" crossorigin href="/p/feedcheck/assets/index-Tv45Qfmp.css">
+  <link href="https://fonts.googleapis.com/css2?family=Anton&family=Plus+Jakarta+Sans:ital,wght@0,500;0,600;0,700;1,700&family=Inter:wght@400;500;600&display=swap" rel="stylesheet">
+  <script type="module" crossorigin src="/p/feedcheck/assets/index-B7ynp-uK.js"></script>
+  <link rel="stylesheet" crossorigin href="/p/feedcheck/assets/index-7cabGm70.css">
 </head>
 <body>
 
@@ -79,6 +79,7 @@
           <label class="tg"><input type="checkbox" data-dark checked><span>Dark feed</span></label>
           <label class="tg"><input type="checkbox" data-squint><span>Squint</span></label>
           <label class="tg"><input type="checkbox" data-zone><span>Badge zone</span></label>
+          <button type="button" class="tg tg--btn" data-shuffle title="Show a different set of videos around yours"><svg viewBox="0 0 16 16" aria-hidden="true"><path d="M13.5 8a5.5 5.5 0 1 1-1.6-3.9M13.5 2.5v3h-3" fill="none" stroke="currentColor" stroke-width="1.6" stroke-linecap="round" stroke-linejoin="round"/></svg><span>New feed</span></button>
         </div>
       </div>
 
@@ -100,7 +101,7 @@
 
 <footer class="foot">
   <div class="wrap foot__in">
-    <span>Feedcheck — a personal project by galaksss. Not affiliated with any video platform.</span>
+    <span>Feedcheck — a personal project by galaksss. Not affiliated with any video platform. Feed photos: Unsplash.</span>
     <span class="foot__links"><a href="/">More work by galaksss</a><a href="https://t.me/galaksss" target="_blank" rel="noopener">Telegram ↗</a></span>
   </div>
 </footer>

diff --git a/public/p/feedcheck/feed/CREDITS.md b/public/p/feedcheck/feed/CREDITS.md
@@ -1,0 +1,43 @@
+# Photos in the sample feed
+
+All photos are from Unsplash (Unsplash License: free to use, no attribution required), served via Lorem Picsum.
+Thumbnail text and graphics on top of them are drawn by Feedcheck. Titles and channels are made up.
+
+| File | Author | Source |
+|---|---|---|
+| 0.jpg | Alejandro Escamilla | https://unsplash.com/photos/yC-Yzbqy7PY |
+| 5.jpg | Alejandro Escamilla | https://unsplash.com/photos/LF8gK8-HGSg |
+| 60.jpg | Vadim Sherbakov | https://unsplash.com/photos/Hi9GSwWkCJk |
+| 445.jpg | Aleksi Tappura | https://unsplash.com/photos/mCg0ZgD7BgU |
+| 529.jpg | Jeff Sheldon | https://unsplash.com/photos/eOLpJytrbsQ |
+| 668.jpg | William Iven | https://unsplash.com/photos/GANqCr1BRTU |
+| 91.jpg | Jennifer Trovato | https://unsplash.com/photos/baRYCsjO6z4 |
+| 355.jpg | Mario Calvo | https://unsplash.com/photos/YOT6kS8YtEA |
+| 133.jpg | Dietmar Becker | https://unsplash.com/photos/8Zt0xOOK4nI |
+| 514.jpg | Jeff Sheldon | https://unsplash.com/photos/ICfoiW1d_90 |
+| 1072.jpg | jamie mink | https://unsplash.com/photos/5Qwz2KyfIBE |
+| 757.jpg | Josh Felise | https://unsplash.com/photos/11Q8ApbwkVI |
+| 376.jpg | Andrew Ruiz | https://unsplash.com/photos/bI2j1olMXUA |
+| 402.jpg | Loudge | https://unsplash.com/photos/VfIYjO8P_24 |
+| 391.jpg | Sarah Holmes | https://unsplash.com/photos/TlLgCqWEzUQ |
+| 868.jpg | Jeffrey Swanson | https://unsplash.com/photos/T72-kQyQxtA |
+| 1067.jpg | Kevin Young | https://unsplash.com/photos/-icmOdYWXuQ |
+| 883.jpg | Joshua Earle | https://unsplash.com/photos/ZMcLVBi9xx4 |
+| 901.jpg | Marcelo Quinan | https://unsplash.com/photos/R3pUGn5YiTg |
+| 906.jpg | Andras Toth | https://unsplash.com/photos/E9CrQou9K0Y |
+| 509.jpg | Jeff Sheldon | https://unsplash.com/photos/SdSc4sWVMRU |
+| 1052.jpg | Annie Spratt | https://unsplash.com/photos/x8R2oSWZRSE |
+| 397.jpg | Jonas Lavoie-Levesque | https://unsplash.com/photos/XnuFhviCGio |
+| 473.jpg | Todd Quackenbush | https://unsplash.com/photos/Nk5rSNq13sM |
+| 65.jpg | Alexander Shustov | https://unsplash.com/photos/2FrX56QL7P8 |
+| 429.jpg | Glen Carrie | https://unsplash.com/photos/FjjUVn_KHLU |
+| 488.jpg | Monstruo Estudio | https://unsplash.com/photos/lQy6mHZ7fYk |
+| 766.jpg | Padurariu Alexandru | https://unsplash.com/photos/mqyMjCTWJyQ |
+| 407.jpg | Kelley Bozarth | https://unsplash.com/photos/n6vS3xlnsCc |
+| 1062.jpg | Matthew Wiebe | https://unsplash.com/photos/2Ts5HnA67k8 |
+| 1082.jpg | Lukas Budimaier | https://unsplash.com/photos/JzkgpML_8XI |
+| 96.jpg | Pawel Kadysz | https://unsplash.com/photos/CuFYW1c97w8 |
+| 1024.jpg | Niko Virtanen | https://nikovirtanen.com |
+| 846.jpg | Jeremy Bishop | https://unsplash.com/photos/l61smgU3Y7w |
+| 726.jpg | Caleb George | https://unsplash.com/photos/BrXiun04yr4 |
+| 1077.jpg | Maico Amorim | https://unsplash.com/photos/SJWPKMb9u-k |
